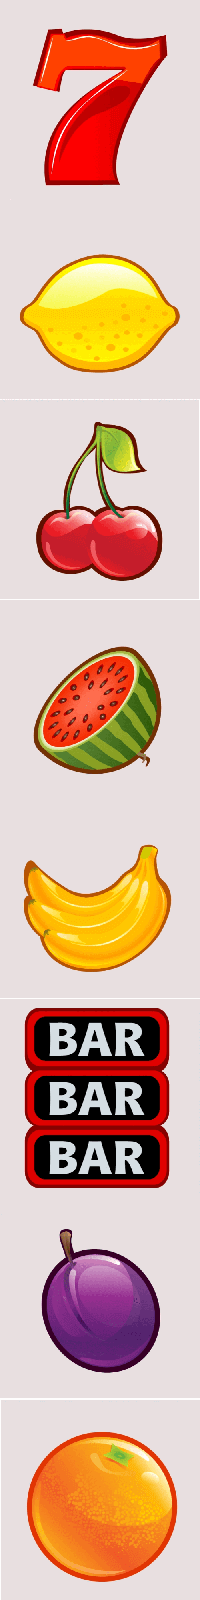
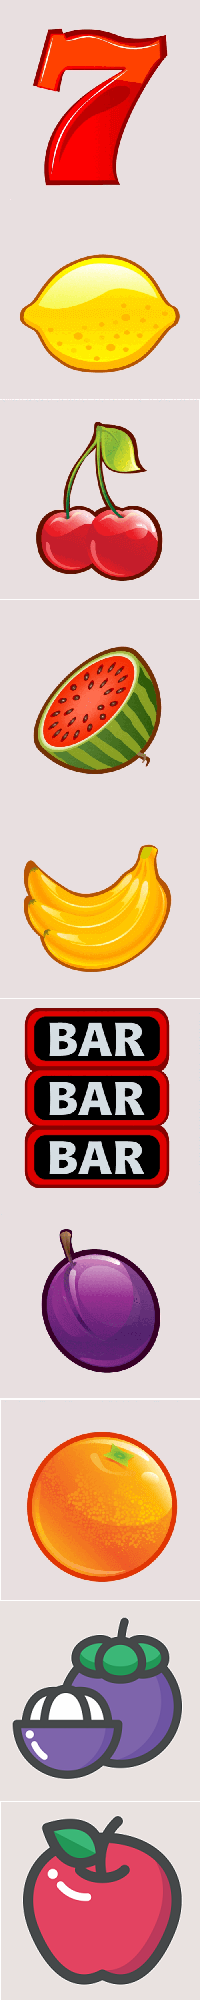
+ Add box bonus * Add 2 more symbols for wheel

diff --git a/LotteryMachine/LotteryMachine/scripts/GameMain.js b/LotteryMachine/LotteryMachine/scripts/GameMain.js
@@ -34,6 +34,8 @@ var GameMain = /** @class */ (function () {
         //end skybox
         var ground = BABYLON.Mesh.CreateGround("ground1", 100, 100, 2, this.scene);
         ground.position.y = -6;
+        ground.physicsImpostor = new BABYLON.PhysicsImpostor(ground, BABYLON.PhysicsImpostor.BoxImpostor, { mass: 0, restitution: 0.4 }, this.scene);
+        var box = new BoxBonus(100, this.scene);
         //init wheels
         for (var i = 0; i < WheelNumber; i++) {
             this.wheels[i] = new Wheel(i, this);
@@ -41,14 +43,14 @@ var GameMain = /** @class */ (function () {
         }
         //init lines
         BABYLON.MeshBuilder.CreateCylinder;
-        var cl = BABYLON.MeshBuilder.CreateCylinder("cl", { height: 10, diameter: 12, arc: 0.6, enclose: true, subdivisions: 3, hasRings: true }, this.scene);
+        var cl = BABYLON.MeshBuilder.CreateCylinder("cl", { height: 10, diameter: 12, arc: 0.7, enclose: true, subdivisions: 3, hasRings: true }, this.scene);
         cl.rotate(BABYLON.Axis.Z, Math.PI / 2, BABYLON.Space.WORLD);
         cl.rotate(BABYLON.Axis.X, -Math.PI * 3 / 4, BABYLON.Space.WORLD);
         cl.position.x = 3;
         var mat = new BABYLON.StandardMaterial("cl", this.scene);
-        mat.diffuseColor = new BABYLON.Color3(0.4, 0.4, 0.4);
+        mat.diffuseColor = new BABYLON.Color3(0.6, 0.6, 0.6);
         mat.specularColor = new BABYLON.Color3(0.4, 0.4, 0.4);
-        mat.emissiveColor = BABYLON.Color3.Green();
+        mat.emissiveColor = BABYLON.Color3.Blue();
         cl.material = mat;
         //cl.position.z = -10;
         //spinButton
@@ -100,7 +102,7 @@ var GameMain = /** @class */ (function () {
         this.textBlock.text += "Spin Remaining: " + this.spinRemaining;
         this.textBlock.text += "\n";
         this.textBlock.text += "Spin Wining: " + this.spinWining;
-        this.textBlock.color = "white";
+        this.textBlock.color = "blue";
         this.textBlock.width = "300px";
         this.textBlock.fontSize = 24;
         rect1.addControl(this.textBlock);
@@ -151,7 +153,8 @@ var GameMain = /** @class */ (function () {
         this.canvas = document.getElementById(this.canvasName);
         this.engine = new BABYLON.Engine(this.canvas, true);
         this.scene = new BABYLON.Scene(this.engine);
-        var camera = new BABYLON.FreeCamera("FreeCamera", new BABYLON.Vector3(-5, 15, -35), this.scene);
+        this.scene.enablePhysics(new BABYLON.Vector3(0, -9.81, 0));
+        var camera = new BABYLON.FreeCamera("FreeCamera", new BABYLON.Vector3(-5, 5, -35), this.scene);
         camera.setTarget(new BABYLON.Vector3(3, 3, 0));
         camera.attachControl(this.engine.getRenderingCanvas());
         // Hemispheric light to light the scene
@@ -164,6 +167,14 @@ var GameMain = /** @class */ (function () {
         var loadWheelTask = loader.addMeshTask("wheel", "", "./assets/wheel/", "wheel.babylon");
         loadWheelTask.onSuccess = function (task) {
             _this.initMesh(task);
+        };
+        var loadBackgroundMusicTask = loader.addBinaryFileTask("load BackgroundMusic task", "sounds/violons18.wav");
+        loadBackgroundMusicTask.onSuccess = function (task) {
+            _this.backgroundMusic = new BABYLON.Sound("backgroundMusic", task.data, _this.scene, null, { loop: true });
+        };
+        var loadspinSoundTask = loader.addBinaryFileTask("load SpinSound task", "sounds/violons18.wav");
+        loadspinSoundTask.onSuccess = function (task) {
+            _this.spinSound = new BABYLON.Sound("spinSound", task.data, _this.scene, null, { loop: false });
         };
         loader.load();
         loader.onFinish = function (tasks) {

diff --git a/LotteryMachine/LotteryMachine/scripts/GameMain.ts b/LotteryMachine/LotteryMachine/scripts/GameMain.ts
@@ -8,6 +8,8 @@
     spinRemaining: number = 50;
     spinWining: number = 0;
     textBlock: BABYLON.GUI.TextBlock;
+    backgroundMusic: BABYLON.Sound;
+    spinSound: BABYLON.Sound;
     constructor(canvasName: string) {
         this.canvasName = canvasName;
     }
@@ -44,6 +46,9 @@
 
         let ground = BABYLON.Mesh.CreateGround("ground1", 100, 100, 2, this.scene);
         ground.position.y = -6;
+        ground.physicsImpostor = new BABYLON.PhysicsImpostor(ground, BABYLON.PhysicsImpostor.BoxImpostor, { mass: 0, restitution: 0.4 }, this.scene);
+
+        let box = new BoxBonus(100, this.scene);
         //init wheels
         for (let i = 0; i < WheelNumber; i++) {
             this.wheels[i] = new Wheel(i, this);
@@ -51,14 +56,14 @@
         }
         //init lines
         BABYLON.MeshBuilder.CreateCylinder
-        let cl = BABYLON.MeshBuilder.CreateCylinder("cl", { height: 10, diameter: 12, arc: 0.6, enclose: true, subdivisions: 3, hasRings: true }, this.scene);
+        let cl = BABYLON.MeshBuilder.CreateCylinder("cl", { height: 10, diameter: 12, arc: 0.7, enclose: true, subdivisions: 3, hasRings: true }, this.scene);
         cl.rotate(BABYLON.Axis.Z, Math.PI / 2, BABYLON.Space.WORLD);
         cl.rotate(BABYLON.Axis.X, - Math.PI * 3 / 4, BABYLON.Space.WORLD);
         cl.position.x = 3;
         let mat = new BABYLON.StandardMaterial("cl", this.scene);
-        mat.diffuseColor = new BABYLON.Color3(0.4, 0.4, 0.4);
+        mat.diffuseColor = new BABYLON.Color3(0.6, 0.6, 0.6);
         mat.specularColor = new BABYLON.Color3(0.4, 0.4, 0.4);
-        mat.emissiveColor = BABYLON.Color3.Green();
+        mat.emissiveColor = BABYLON.Color3.Blue();
         cl.material = mat;
         //cl.position.z = -10;
         //spinButton
@@ -113,7 +118,7 @@
         this.textBlock.text += "Spin Remaining: " + this.spinRemaining;
         this.textBlock.text += "\n";
         this.textBlock.text += "Spin Wining: " + this.spinWining;
-        this.textBlock.color = "white";
+        this.textBlock.color = "blue";
         this.textBlock.width = "300px";
         this.textBlock.fontSize = 24;
         rect1.addControl(this.textBlock);
@@ -171,7 +176,7 @@
         this.engine = new BABYLON.Engine(this.canvas, true);
         this.scene = new BABYLON.Scene(this.engine);
 
-        let camera = new BABYLON.FreeCamera("FreeCamera", new BABYLON.Vector3(-5, 15, -35), this.scene);
+        let camera = new BABYLON.FreeCamera("FreeCamera", new BABYLON.Vector3(-5, 5, -35), this.scene);
         camera.setTarget(new BABYLON.Vector3(3, 3, 0));
         camera.attachControl(this.engine.getRenderingCanvas());
 
@@ -187,6 +192,16 @@
         let loadWheelTask = loader.addMeshTask("wheel", "", "./assets/wheel/", "wheel.babylon");
         loadWheelTask.onSuccess = (task) => {
             this.initMesh(task);
+        }
+
+        let loadBackgroundMusicTask = loader.addBinaryFileTask("load BackgroundMusic task", "sounds/violons18.wav");
+        loadBackgroundMusicTask.onSuccess = (task) => {
+            this.backgroundMusic = new BABYLON.Sound("backgroundMusic", task.data, this.scene, null, { loop: true });
+        }
+
+        let loadspinSoundTask = loader.addBinaryFileTask("load SpinSound task", "sounds/violons18.wav");
+        loadspinSoundTask.onSuccess = (task) => {
+            this.spinSound = new BABYLON.Sound("spinSound", task.data, this.scene, null, { loop: false });
         }
 
         loader.load();

diff --git a/LotteryMachine/LotteryMachine/scripts/Definitions.js b/LotteryMachine/LotteryMachine/scripts/Definitions.js
@@ -7,29 +7,21 @@ var E_WHEEL_STATE;
 })(E_WHEEL_STATE || (E_WHEEL_STATE = {}));
 ;
 var WheelNumber = 3;
-var rules = [
-    [0, 0, 0],
-    [1, 1, 1],
-    [2, 2, 2],
-    [0, 1, 2],
-    [2, 1, 0],
-];
 var E_WHEEL_VALUE;
 (function (E_WHEEL_VALUE) {
-    E_WHEEL_VALUE[E_WHEEL_VALUE["ORANGE"] = 0] = "ORANGE";
-    E_WHEEL_VALUE[E_WHEEL_VALUE["BLUEBERRY"] = 1] = "BLUEBERRY";
-    E_WHEEL_VALUE[E_WHEEL_VALUE["BAR"] = 2] = "BAR";
-    E_WHEEL_VALUE[E_WHEEL_VALUE["BANANA"] = 3] = "BANANA";
-    E_WHEEL_VALUE[E_WHEEL_VALUE["WATERMELON"] = 4] = "WATERMELON";
-    E_WHEEL_VALUE[E_WHEEL_VALUE["GRAPE"] = 5] = "GRAPE";
-    E_WHEEL_VALUE[E_WHEEL_VALUE["MANGO"] = 6] = "MANGO";
-    E_WHEEL_VALUE[E_WHEEL_VALUE["SEVEN_NUMBER"] = 7] = "SEVEN_NUMBER";
-    E_WHEEL_VALUE[E_WHEEL_VALUE["MAX"] = 8] = "MAX";
+    E_WHEEL_VALUE[E_WHEEL_VALUE["APPLE"] = 0] = "APPLE";
+    E_WHEEL_VALUE[E_WHEEL_VALUE["MANGOSTEEN"] = 1] = "MANGOSTEEN";
+    E_WHEEL_VALUE[E_WHEEL_VALUE["ORANGE"] = 2] = "ORANGE";
+    E_WHEEL_VALUE[E_WHEEL_VALUE["BLUEBERRY"] = 3] = "BLUEBERRY";
+    E_WHEEL_VALUE[E_WHEEL_VALUE["BAR"] = 4] = "BAR";
+    E_WHEEL_VALUE[E_WHEEL_VALUE["BANANA"] = 5] = "BANANA";
+    E_WHEEL_VALUE[E_WHEEL_VALUE["WATERMELON"] = 6] = "WATERMELON";
+    E_WHEEL_VALUE[E_WHEEL_VALUE["GRAPE"] = 7] = "GRAPE";
+    E_WHEEL_VALUE[E_WHEEL_VALUE["MANGO"] = 8] = "MANGO";
+    E_WHEEL_VALUE[E_WHEEL_VALUE["SEVEN_NUMBER"] = 9] = "SEVEN_NUMBER";
+    E_WHEEL_VALUE[E_WHEEL_VALUE["MAX"] = 10] = "MAX";
 })(E_WHEEL_VALUE || (E_WHEEL_VALUE = {}));
 ;
-var E_WHEEL_CALLBACK_STATE;
-(function (E_WHEEL_CALLBACK_STATE) {
-    E_WHEEL_CALLBACK_STATE[E_WHEEL_CALLBACK_STATE["NOT_DONE"] = 0] = "NOT_DONE";
-    E_WHEEL_CALLBACK_STATE[E_WHEEL_CALLBACK_STATE["DONE"] = 1] = "DONE";
-})(E_WHEEL_CALLBACK_STATE || (E_WHEEL_CALLBACK_STATE = {}));
+var WHEEL_VALUE_FREE_SPIN = E_WHEEL_VALUE.SEVEN_NUMBER;
+var WHEEL_VALUE_BONUS = E_WHEEL_VALUE.BAR;
 //# sourceMappingURL=Definitions.js.map

diff --git a/LotteryMachine/LotteryMachine/scripts/BoxBonus.js b/LotteryMachine/LotteryMachine/scripts/BoxBonus.js
@@ -1,0 +1,12 @@
+var BoxBonus = /** @class */ (function () {
+    function BoxBonus(goldBonus, scene) {
+        this.goldBonus = goldBonus;
+        this.scene = scene;
+        this.model = BABYLON.MeshBuilder.CreateBox("boxbonus", { size: 5 }, this.scene);
+        var mat = new BABYLON.StandardMaterial("boxbonusMat", this.scene);
+        this.model.physicsImpostor = new BABYLON.PhysicsImpostor(this.model, BABYLON.PhysicsImpostor.BoxImpostor, { mass: 1, restitution: 0.4 }, this.scene);
+        this.model.position = new BABYLON.Vector3(30, 30, 0);
+    }
+    return BoxBonus;
+}());
+//# sourceMappingURL=BoxBonus.js.map

diff --git a/LotteryMachine/LotteryMachine/scripts/Definitions.ts b/LotteryMachine/LotteryMachine/scripts/Definitions.ts
@@ -7,17 +7,10 @@
 
 const WheelNumber: number = 3;
 
-var rules: number[][] =
-    [
-        [0, 0, 0],
-        [1, 1, 1],
-        [2, 2, 2],
-        [0, 1, 2],
-        [2, 1, 0],
-    ];
-
 enum E_WHEEL_VALUE {
-    ORANGE = 0,
+    APPLE = 0,
+    MANGOSTEEN,
+    ORANGE,
     BLUEBERRY,
     BAR,
     BANANA,
@@ -28,7 +21,5 @@ enum E_WHEEL_VALUE {
     MAX
 };
 
-enum E_WHEEL_CALLBACK_STATE {
-    NOT_DONE = 0,
-    DONE
-}
+const WHEEL_VALUE_FREE_SPIN: E_WHEEL_VALUE = E_WHEEL_VALUE.SEVEN_NUMBER;
+const WHEEL_VALUE_BONUS: E_WHEEL_VALUE = E_WHEEL_VALUE.BAR;

diff --git a/LotteryMachine/LotteryMachine/scripts/BoxBonus.ts b/LotteryMachine/LotteryMachine/scripts/BoxBonus.ts
@@ -1,0 +1,9 @@
+class BoxBonus {
+    model: BABYLON.Mesh;
+    constructor(public goldBonus: number, public scene: BABYLON.Scene) {
+        this.model = BABYLON.MeshBuilder.CreateBox("boxbonus", { size: 5 }, this.scene);
+        let mat = new BABYLON.StandardMaterial("boxbonusMat", this.scene);
+        this.model.physicsImpostor = new BABYLON.PhysicsImpostor(this.model, BABYLON.PhysicsImpostor.BoxImpostor, { mass: 1, restitution: 0.4 }, this.scene);
+        this.model.position = new BABYLON.Vector3(30, 30, 0);
+    }
+}

diff --git a/LotteryMachine/LotteryMachine/index.html b/LotteryMachine/LotteryMachine/index.html
@@ -19,6 +19,7 @@
     <script src="scripts/GameMain.js"></script>
     <script src="scripts/Wheel.js"></script>
     <script src="scripts/Definitions.js"></script>
+    <script src="scripts/BoxBonus.js"></script>
     <script src="app.js"></script>
     <style>
         html, body {

diff --git a/LotteryMachine/LotteryMachine/app.ts b/LotteryMachine/LotteryMachine/app.ts
@@ -1,4 +1,4 @@
 window.onload = () => {
-    var gameMain = new GameMain("canvas");
+    let gameMain = new GameMain("canvas");
     gameMain.run();
 };
